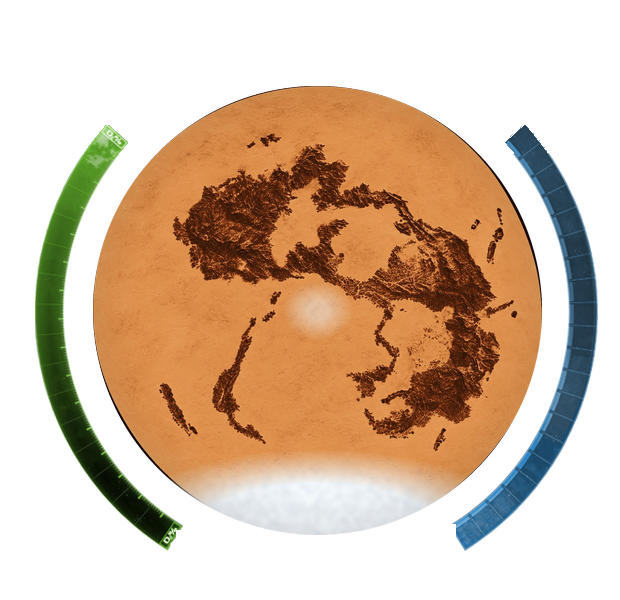
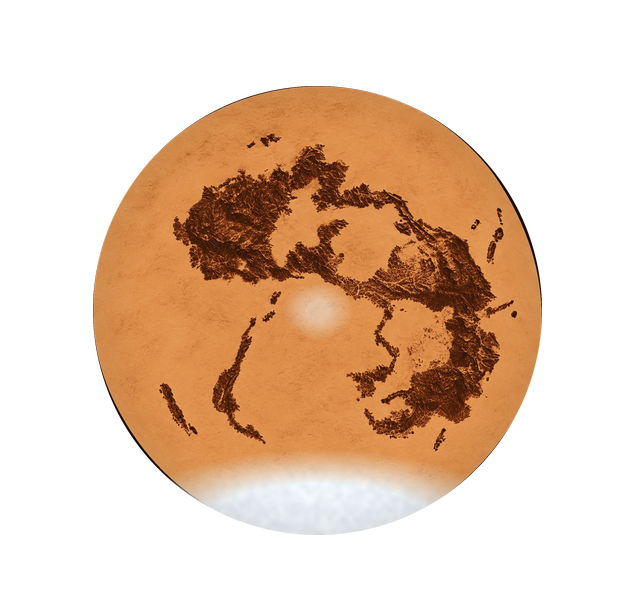
Dune: scales around Arrakis as sharp vector bands instead of recoloured picture rings; phone parameter bars in Dune colours
Claude-Session: https://claude.ai/code/session_01Hm7JhJk6hoDEdgvNzsWLyo

Changed region(s): [[0.7355, 0.21, 0.9806, 0.93], [0.0306, 0.21, 0.3065, 0.93]]

diff --git a/src/client/components/board/arrakisScales.ts b/src/client/components/board/arrakisScales.ts
@@ -1,0 +1,54 @@
+// The two scales around Arrakis (vegetation left, water storage right) drawn as vectors instead of the Mars rings
+// of the board picture: the picture got blurry once its rings were recoloured and cut out. The markers with the numbers
+// stay where globs.less pins them; these arcs only lie behind them, on the same circle.
+
+/** Circle of the markers in the coordinates of .global-numbers (globs.less @dial-cx, @dial-cy, @dial-r) */
+export const SCALE_CENTRE_X = 300;
+export const SCALE_CENTRE_Y = 300.2;
+export const SCALE_RADIUS = 267.4;
+/** Width of the band; the 26px markers sit inside it */
+export const SCALE_BAND = 32;
+
+/** Angle of every marker in degrees (clockwise from the right), in order of the values (globs.less @oxygen-vals) */
+export const VEGETATION_ANGLES: ReadonlyArray<number> = [
+  127.3, 133.2, 139.9, 146.5, 152.5, 159, 165.3, 171.9, 178.3, 184.8, 191.1, 197.5, 203.9, 210.2, 216.5,
+];
+
+/** Same for the water storage (globs.less @temperature-vals, −30 … +8 °C) */
+export const WATER_ANGLES: ReadonlyArray<number> = [
+  55.6, 50.3, 45.6, 40.6, 35.7, 30.6, 25.7, 20.6, 15.8, 10.8, 5.7, 0.8, -4.1, -9.3, -14.1, -19.2, -24.3, -29.3, -34.1, -39.4,
+];
+
+function point(angle: number, radius: number): string {
+  const radians = angle * Math.PI / 180;
+  const x = SCALE_CENTRE_X + radius * Math.cos(radians);
+  const y = SCALE_CENTRE_Y + radius * Math.sin(radians);
+  return `${x.toFixed(2)} ${y.toFixed(2)}`;
+}
+
+/** Ring sector between two angles (any order) as an SVG path */
+export function ringSector(from: number, to: number, inner: number, outer: number): string {
+  const start = Math.min(from, to);
+  const end = Math.max(from, to);
+  const large = end - start > 180 ? 1 : 0;
+  return [
+    `M ${point(start, outer)}`,
+    `A ${outer} ${outer} 0 ${large} 1 ${point(end, outer)}`,
+    `L ${point(end, inner)}`,
+    `A ${inner} ${inner} 0 ${large} 0 ${point(start, inner)}`,
+    'Z',
+  ].join(' ');
+}
+
+export type ScaleStep = {path: string, index: number};
+
+/** One sector per value, bounded halfway to its neighbours (the ends reach as far out as the first step is wide) */
+export function scaleSteps(angles: ReadonlyArray<number>): Array<ScaleStep> {
+  const inner = SCALE_RADIUS - SCALE_BAND / 2;
+  const outer = SCALE_RADIUS + SCALE_BAND / 2;
+  return angles.map((angle, index) => {
+    const before = index > 0 ? (angles[index - 1] + angle) / 2 : angle - (angles[1] - angle) / 2;
+    const after = index < angles.length - 1 ? (angle + angles[index + 1]) / 2 : angle + (angle - angles[index - 1]) / 2;
+    return {path: ringSector(before, after, inner, outer), index};
+  });
+}

diff --git a/tests/client/components/board/arrakisScales.spec.ts b/tests/client/components/board/arrakisScales.spec.ts
@@ -1,0 +1,32 @@
+import {expect} from 'chai';
+import fs from 'fs';
+import path from 'path';
+import {SCALE_CENTRE_X, SCALE_CENTRE_Y, SCALE_RADIUS, VEGETATION_ANGLES, WATER_ANGLES, scaleSteps} from '@/client/components/board/arrakisScales';
+
+// The vector scales of Arrakis lie behind the markers that globs.less pins: both must use the same circle and angles
+function lessAngles(less: string, list: string): Array<number> {
+  const block = less.split(`@${list}:`)[1].split(';')[0];
+  return [...block.matchAll(/-?\d+\s+(-?[\d.]+)deg/g)].map((match) => Number(match[1]));
+}
+
+function lessNumber(less: string, name: string): number {
+  return Number(less.split(`@${name}:`)[1].split('px')[0]);
+}
+
+describe('arrakisScales', () => {
+  const less = fs.readFileSync(path.resolve(__dirname, '../../../../src/styles/globs.less'), 'utf8');
+
+  it('uses the circle and the marker angles of globs.less', () => {
+    expect(SCALE_CENTRE_X).eq(lessNumber(less, 'dial-cx'));
+    expect(SCALE_CENTRE_Y).eq(lessNumber(less, 'dial-cy'));
+    expect(SCALE_RADIUS).eq(lessNumber(less, 'dial-r'));
+    expect(VEGETATION_ANGLES).deep.eq(lessAngles(less, 'oxygen-vals'));
+    expect(WATER_ANGLES).deep.eq(lessAngles(less, 'temperature-vals'));
+  });
+
+  it('draws one closed step per value', () => {
+    const steps = scaleSteps(VEGETATION_ANGLES);
+    expect(steps).has.length(VEGETATION_ANGLES.length);
+    expect(steps.every((step) => step.path.startsWith('M') && step.path.endsWith('Z'))).is.true;
+  });
+});

diff --git a/src/client/components/Board.vue b/src/client/components/Board.vue
@@ -16,6 +16,8 @@
         </div>
 
         <div class="global-numbers" :class="{'global-numbers--large': isLargeBoard}">
+            <!-- Arrakis: the scales as vectors (the Dune board picture is only the planet, scripts/make-dune-planet.py) -->
+            <ArrakisScales v-if="boardName === BoardName.ARRAKIS"/>
             <div class="global-numbers-temperature">
                 <div :class="getScaleCSS(lvl)" v-for="(lvl, idx) in getValuesForParameter('temperature')" :key="idx" v-flash="lvl.isActive ? flashKeys.globalParameter('temperature') : undefined">{{ lvl.strValue }}</div>
             </div>
@@ -361,6 +363,7 @@ import * as constants from '@/common/constants';
 import {getGlobalParameterMaximums} from '@/common/boards/GlobalParameterMaximums';
 import BoardSpace from '@/client/components/BoardSpace.vue';
 import MarsScaleBonuses from '@/client/components/board/MarsScaleBonuses.vue';
+import ArrakisScales from '@/client/components/board/ArrakisScales.vue';
 import {AresData} from '@/common/ares/AresData';
 import {SpaceModel} from '@/common/models/SpaceModel';
 import {SpaceType} from '@/common/boards/SpaceType';
@@ -434,6 +437,7 @@ export default defineComponent({
     flash: vFlash,
   },
   components: {
+    ArrakisScales,
     BoardSpace,
     MarsScaleBonuses,
   },

diff --git a/src/client/components/board/ArrakisScales.vue b/src/client/components/board/ArrakisScales.vue
@@ -1,0 +1,28 @@
+<template>
+  <!-- Arrakis: vegetation (left) and water storage (right) as sharp vector bands behind the markers (arrakisScales.ts) -->
+  <svg class="arrakis-scales" width="600" height="600" viewBox="0 0 600 600" aria-hidden="true">
+    <g class="arrakis-scales__track arrakis-scales__track--vegetation">
+      <path v-for="step in vegetation" :key="step.index" :d="step.path" :class="['arrakis-scales__step', {'arrakis-scales__step--odd': step.index % 2 === 1}]"/>
+    </g>
+    <g class="arrakis-scales__track arrakis-scales__track--water">
+      <path v-for="step in water" :key="step.index" :d="step.path" :class="['arrakis-scales__step', {'arrakis-scales__step--odd': step.index % 2 === 1}]"/>
+    </g>
+  </svg>
+</template>
+
+<script lang="ts">
+import {defineComponent} from 'vue';
+import {ScaleStep, VEGETATION_ANGLES, WATER_ANGLES, scaleSteps} from './arrakisScales';
+
+export default defineComponent({
+  name: 'ArrakisScales',
+  computed: {
+    vegetation(): Array<ScaleStep> {
+      return scaleSteps(VEGETATION_ANGLES);
+    },
+    water(): Array<ScaleStep> {
+      return scaleSteps(WATER_ANGLES);
+    },
+  },
+});
+</script>

diff --git a/src/themes/dune/theme-extra.css b/src/themes/dune/theme-extra.css
@@ -151,6 +151,20 @@ html.theme-dune .track-bonus-chip__production img {
   height: calc(var(--track-bonus-chip, 24px) * 0.6);
 }
 
+/* Phone parameter bars (MobileParameterBars.vue) in the colours of the Arrakis scales: water blue, vegetation green,
+   spice fields orange – the Mars heat and oxygen gradients would contradict the symbols in front of them */
+html.theme-dune .mb-param--temperature .mb-param-fill {
+  background: linear-gradient(var(--bar-direction), #2b6aa3, #5aa5e0);
+}
+
+html.theme-dune .mb-param--oxygen .mb-param-fill {
+  background: linear-gradient(var(--bar-direction), #3c7d2f, #79c060);
+}
+
+html.theme-dune .mb-param--oceans .mb-param-fill {
+  background: #e0662a;
+}
+
 /* Place names on Arrakis (Legends.ts): dark halo, so the white text reads on sand, rock and ice */
 html.theme-dune .board-caption {
   paint-order: stroke;

diff --git a/src/styles/arrakis_scales.less b/src/styles/arrakis_scales.less
@@ -1,0 +1,29 @@
+// Scales around Arrakis (ArrakisScales.vue): drawn at the static position of .global-numbers, i.e. in the same
+// coordinates as the markers, and behind them
+.arrakis-scales {
+  position: absolute;
+  overflow: visible;
+  pointer-events: none;
+}
+
+.arrakis-scales__step {
+  stroke: rgba(20, 12, 6, 0.55);
+  stroke-width: 1;
+}
+
+// Vegetation green and water blue like the scale symbols; every other step a shade lighter, so the steps read
+.arrakis-scales__track--vegetation .arrakis-scales__step {
+  fill: #3c7d2f;
+
+  &.arrakis-scales__step--odd {
+    fill: #46903a;
+  }
+}
+
+.arrakis-scales__track--water .arrakis-scales__step {
+  fill: #2b6aa3;
+
+  &.arrakis-scales__step--odd {
+    fill: #3479b6;
+  }
+}

diff --git a/src/styles/common.less b/src/styles/common.less
@@ -267,6 +267,7 @@ each(@players, {
 @import "./dune_board.less";
 @import "./dune_bazaar.less";
 @import "./dune_worm.less";
+@import "./arrakis_scales.less";
 @import "./moon_ring.less";
 @import "./deal_steps.less";
 @import "./colonies_board.less";

diff --git a/scripts/make-dune-planet.py b/scripts/make-dune-planet.py
@@ -5,8 +5,6 @@
 # Why: the board lays its hexes over assets/board/mars-planet*.png. Arrakis takes exactly the same place, so the
 # pictures have the same size and the planet circle sits where Mars sits; the hexes then line up with the map.
 # Never edit the PNGs by hand – change this script and run it again: python3 scripts/make-dune-planet.py
-import colorsys
-import math
 import os
 from PIL import Image, ImageChops, ImageDraw
 
@@ -15,7 +13,6 @@ SOURCE = os.path.join(ROOT, 'assets/themes/dune/source/arrakis-map.jpg')
 SUPERSAMPLE = 4
 
 # Mars picture, the planet-only picture that gives the planet circle (its alpha box), Dune picture to write.
-# The board pictures with scale rings keep their rings; only the planet is painted over.
 TARGETS = [
     ('assets/board/mars-planet.png', 'assets/board/mars-planet.png', 'assets/themes/dune/arrakis-planet.png'),
     ('assets/board/mars-planet-large.png', 'assets/board/mars-planet-large.png', 'assets/themes/dune/arrakis-planet-large.png'),
@@ -44,67 +41,13 @@ def sphere(size: int) -> Image.Image:
     return planet
 
 
-# Scale rings around the planet: oxygen (left) becomes the green vegetation scale, temperature (right) the blue water
-# storage, the Venus arc on top is removed. Hue of every ring pixel is replaced, brightness and saturation stay, so the scale steps keep their look.
-OXYGEN_HUE = 95 / 360
-WATER_HUE = 205 / 360
-# The Mars labels "O2" and "t°C" below the scale ends (Board.vue shows the Dune symbols there instead): boxes in the
-# 620 × 600 pictures, scaled for the others
-MARS_LABELS = [(176, 530, 205, 557), (420, 524, 455, 559)]
-# The Mars ocean marker below the planet (left of the ocean count): erased, Board.vue puts the spice field tile there.
-# Boxes per picture size (the large pictures have their own layout, so no scaling)
-OCEAN_MARKERS = {(620, 600): (271, 541, 298, 572), (740, 680): (314, 650, 341, 681)}
-
-
-def recolor_rings(picture: Image.Image, left: int, top: int, size: int) -> None:
-    centre_x, centre_y, radius = left + size / 2, top + size / 2, size / 2
-    pixels = picture.load()
-    width, height = picture.size
-    for y in range(height):
-        for x in range(width):
-            red, green, blue, alpha = pixels[x, y]
-            if alpha == 0:
-                continue
-            distance = math.hypot(x - centre_x, y - centre_y)
-            if distance < radius + 6 or distance > radius + 80:
-                continue
-            # Arrakis has no Venus: the top arc goes completely (Jens), not even faded
-            if y < centre_y - radius * 0.83:
-                pixels[x, y] = (0, 0, 0, 0)
-                continue
-            hue, lightness, saturation = colorsys.rgb_to_hls(red / 255, green / 255, blue / 255)
-            # The pale ends of the Venus arc reach down next to the side rings
-            # (the faded Venus arc of the pictures without Venus is semi-transparent, the side rings are opaque)
-            pale = lightness > 0.6 or (saturation < 0.3 and lightness > 0.45)
-            # (the white label at the top end of the oxygen ring stays)
-            if y < centre_y - radius * 0.7 and (alpha < 120 or (pale and x > centre_x - radius * 0.82)):
-                pixels[x, y] = (0, 0, 0, 0)
-                continue
-            target = OXYGEN_HUE if x < centre_x else WATER_HUE
-            new_red, new_green, new_blue = colorsys.hls_to_rgb(target, lightness, max(saturation, 0.35))
-            pixels[x, y] = (round(new_red * 255), round(new_green * 255), round(new_blue * 255), alpha)
-
-
-def erase_labels(picture: Image.Image) -> None:
-    scale_x, scale_y = picture.size[0] / 620, picture.size[1] / 600
-    draw = ImageDraw.Draw(picture)
-    for x0, y0, x1, y1 in MARS_LABELS:
-        draw.rectangle((x0 * scale_x, y0 * scale_y, x1 * scale_x, y1 * scale_y), fill=(0, 0, 0, 0))
-    marker = OCEAN_MARKERS.get(picture.size)
-    if marker is not None:
-        draw.rectangle(marker, fill=(0, 0, 0, 0))
-
-
+# The board pictures of Mars carry the scale rings; Arrakis draws its scales as vectors (ArrakisScales.vue), sharp at
+# every zoom. So every Dune picture is only the planet, at the place of the Mars planet.
 for mars_path, planet_path, dune_path in TARGETS:
     mars = Image.open(os.path.join(ROOT, mars_path)).convert('RGBA')
     left, top, right, bottom = Image.open(os.path.join(ROOT, planet_path)).split()[3].getbbox()
     size = max(right - left, bottom - top)
-    if mars_path != planet_path:
-        canvas = mars.copy()
-        recolor_rings(canvas, left, top, size)
-        erase_labels(canvas)
-    else:
-        canvas = Image.new('RGBA', mars.size, (0, 0, 0, 0))
+    canvas = Image.new('RGBA', mars.size, (0, 0, 0, 0))
     canvas.alpha_composite(sphere(size), (left, top))
     canvas.save(os.path.join(ROOT, dune_path), optimize=True)
     print(dune_path, mars.size, (left, top, size))
